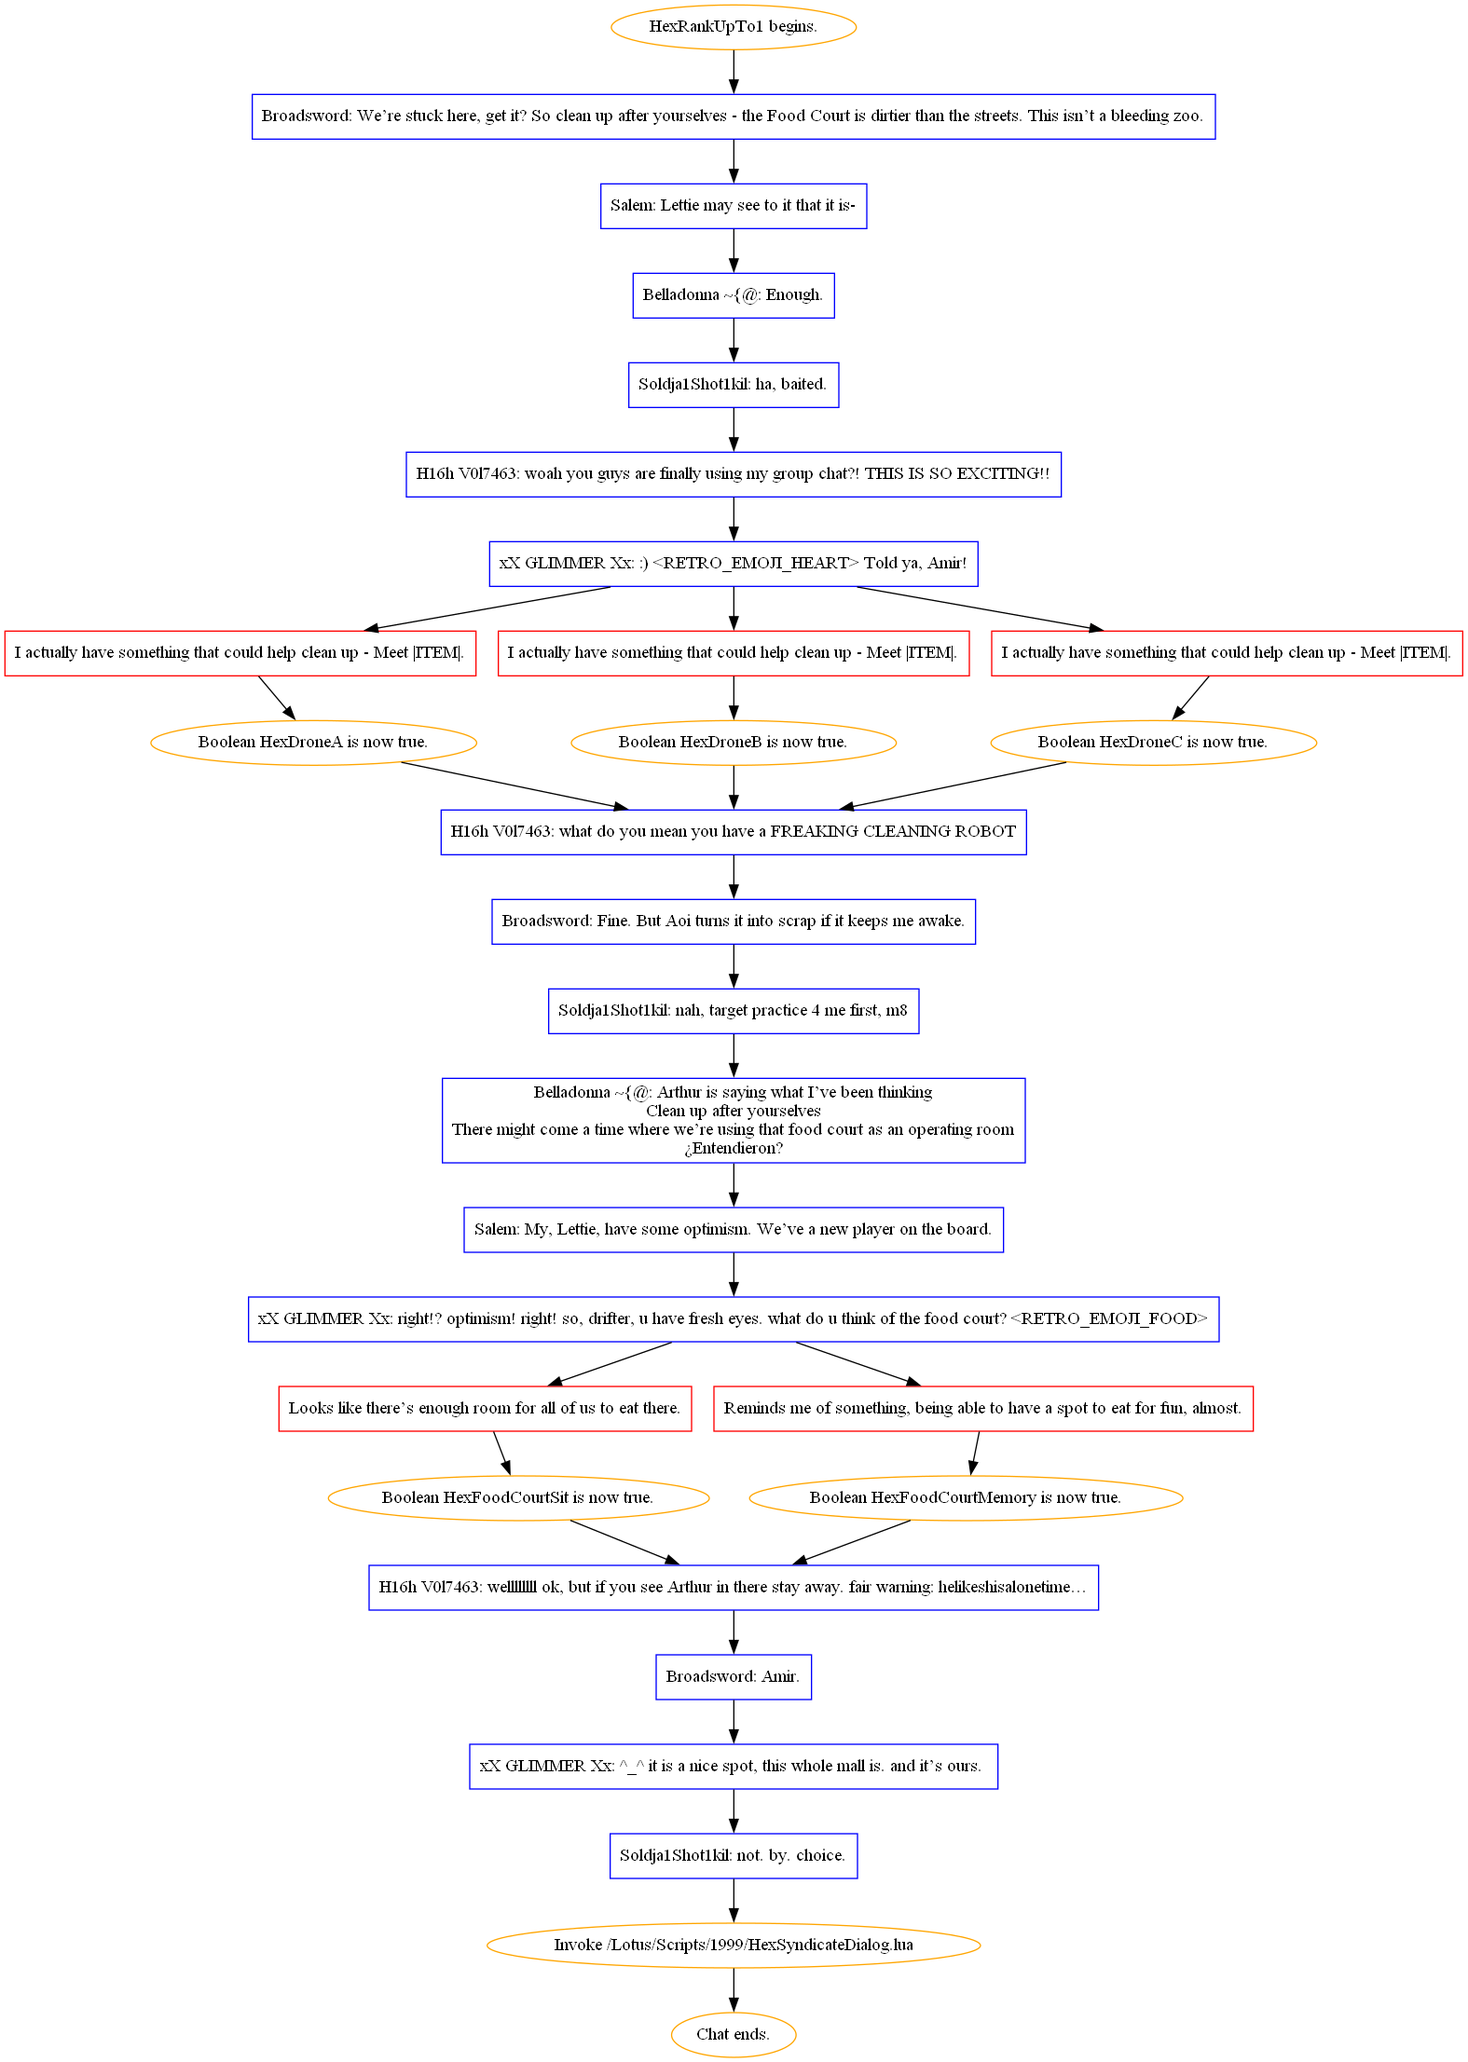
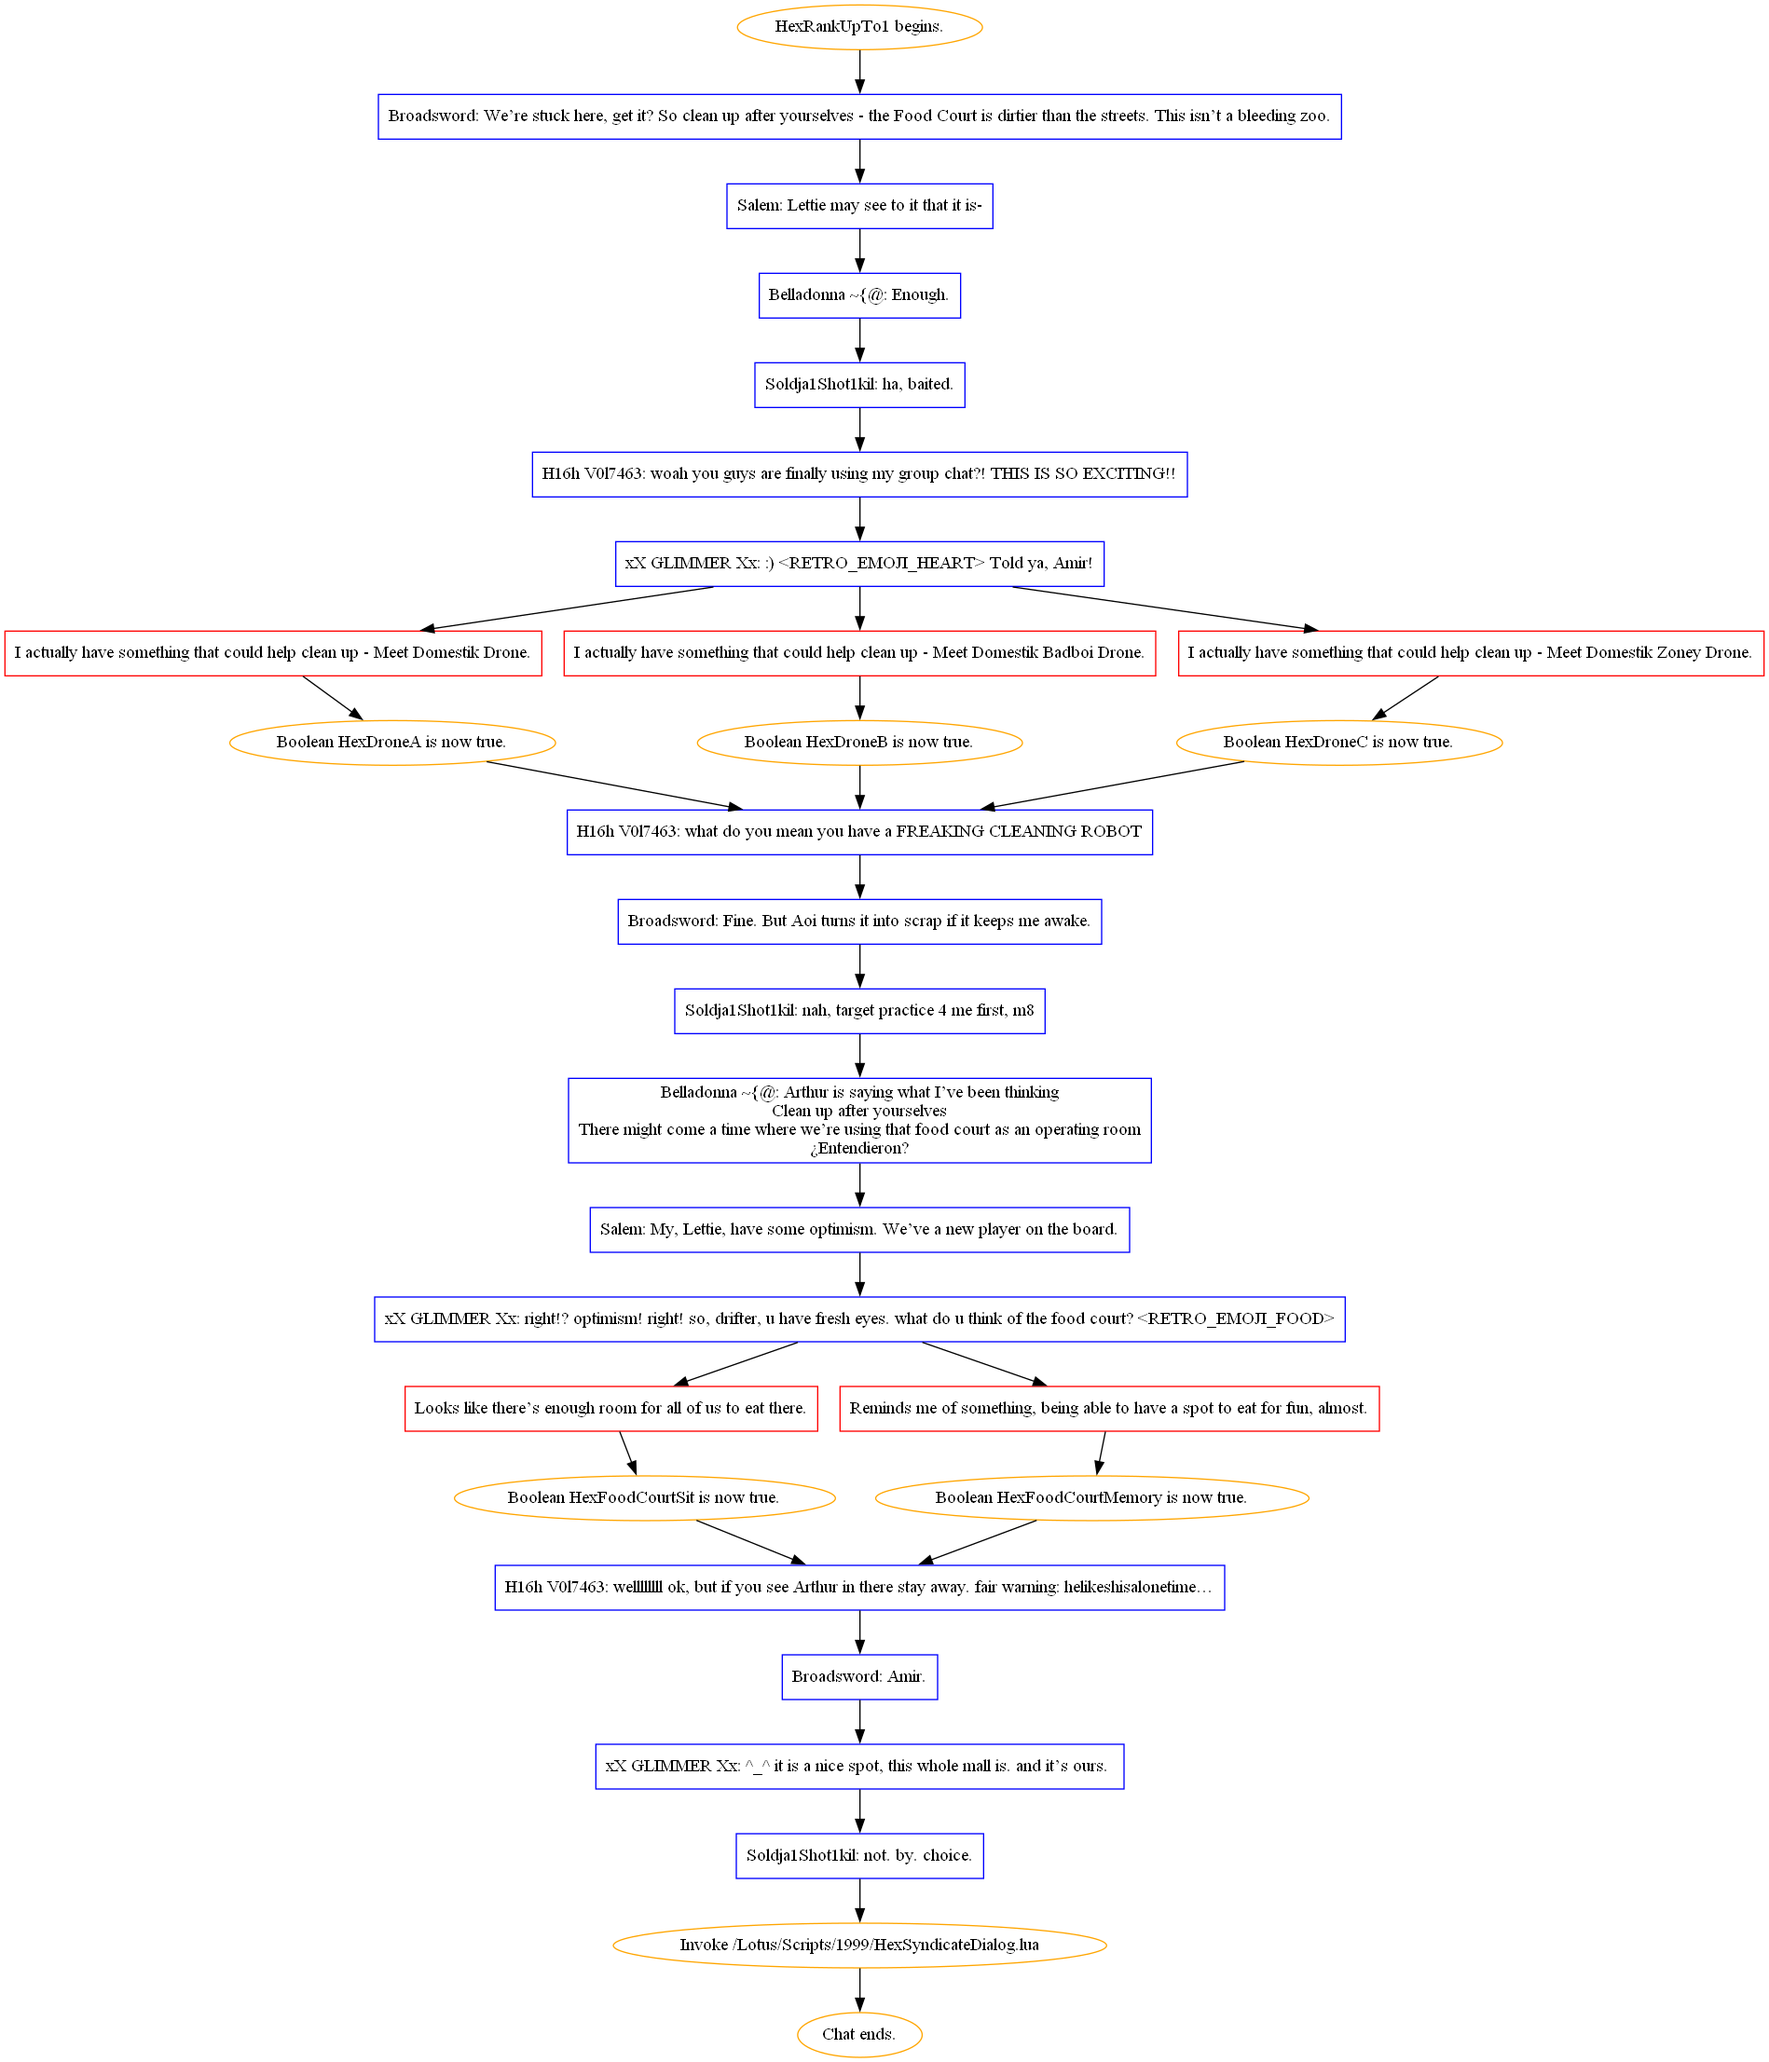
Somewhat handle |ITEM| in HexRankUpTo1

diff --git a/kimulacrum.html b/kimulacrum.html
@@ -222,6 +222,19 @@
 		}
 	}
 
+	function getNodeText(node)
+	{
+		let text = dicts[lang][node.name] ?? node.name;
+		if (node.vars)
+		{
+			for (const [k, v] of Object.entries(node.vars))
+			{
+				text = text.split("|"+k+"|").join(dicts[lang][v] ?? v);
+			}
+		}
+		return text;
+	}
+
 	function processNode(node, chemistry)
 	{
 		//console.log("processNode", node);
@@ -237,12 +250,12 @@
 					sender_name = dicts[lang][sender_name];
 				}
 			}
-			addToHistory(sender_name, dicts[lang][node.name] ?? node.name, chemistry);
+			addToHistory(sender_name, getNodeText(node), chemistry);
 			chemistry = undefined;
 		}
 		else if (node.type == "/EE/Types/Engine/PlayerChoiceDialogueNode")
 		{
-			addToHistory("Drifter", dicts[lang][node.name] ?? node.name);
+			addToHistory("Drifter", getNodeText(node));
 		}
 		else if (node.type == "/EE/Types/Engine/ChemistryDialogueNode")
 		{
@@ -325,7 +338,7 @@
 		{
 			choices.forEach(choiceNodeId => {
 				const choiceNode = nodes[choiceNodeId];
-				presentChoice(dicts[lang][choiceNode.name] ?? choiceNode.name, function()
+				presentChoice(getNodeText(choiceNode), function()
 				{
 					processNode(choiceNode);
 				});
